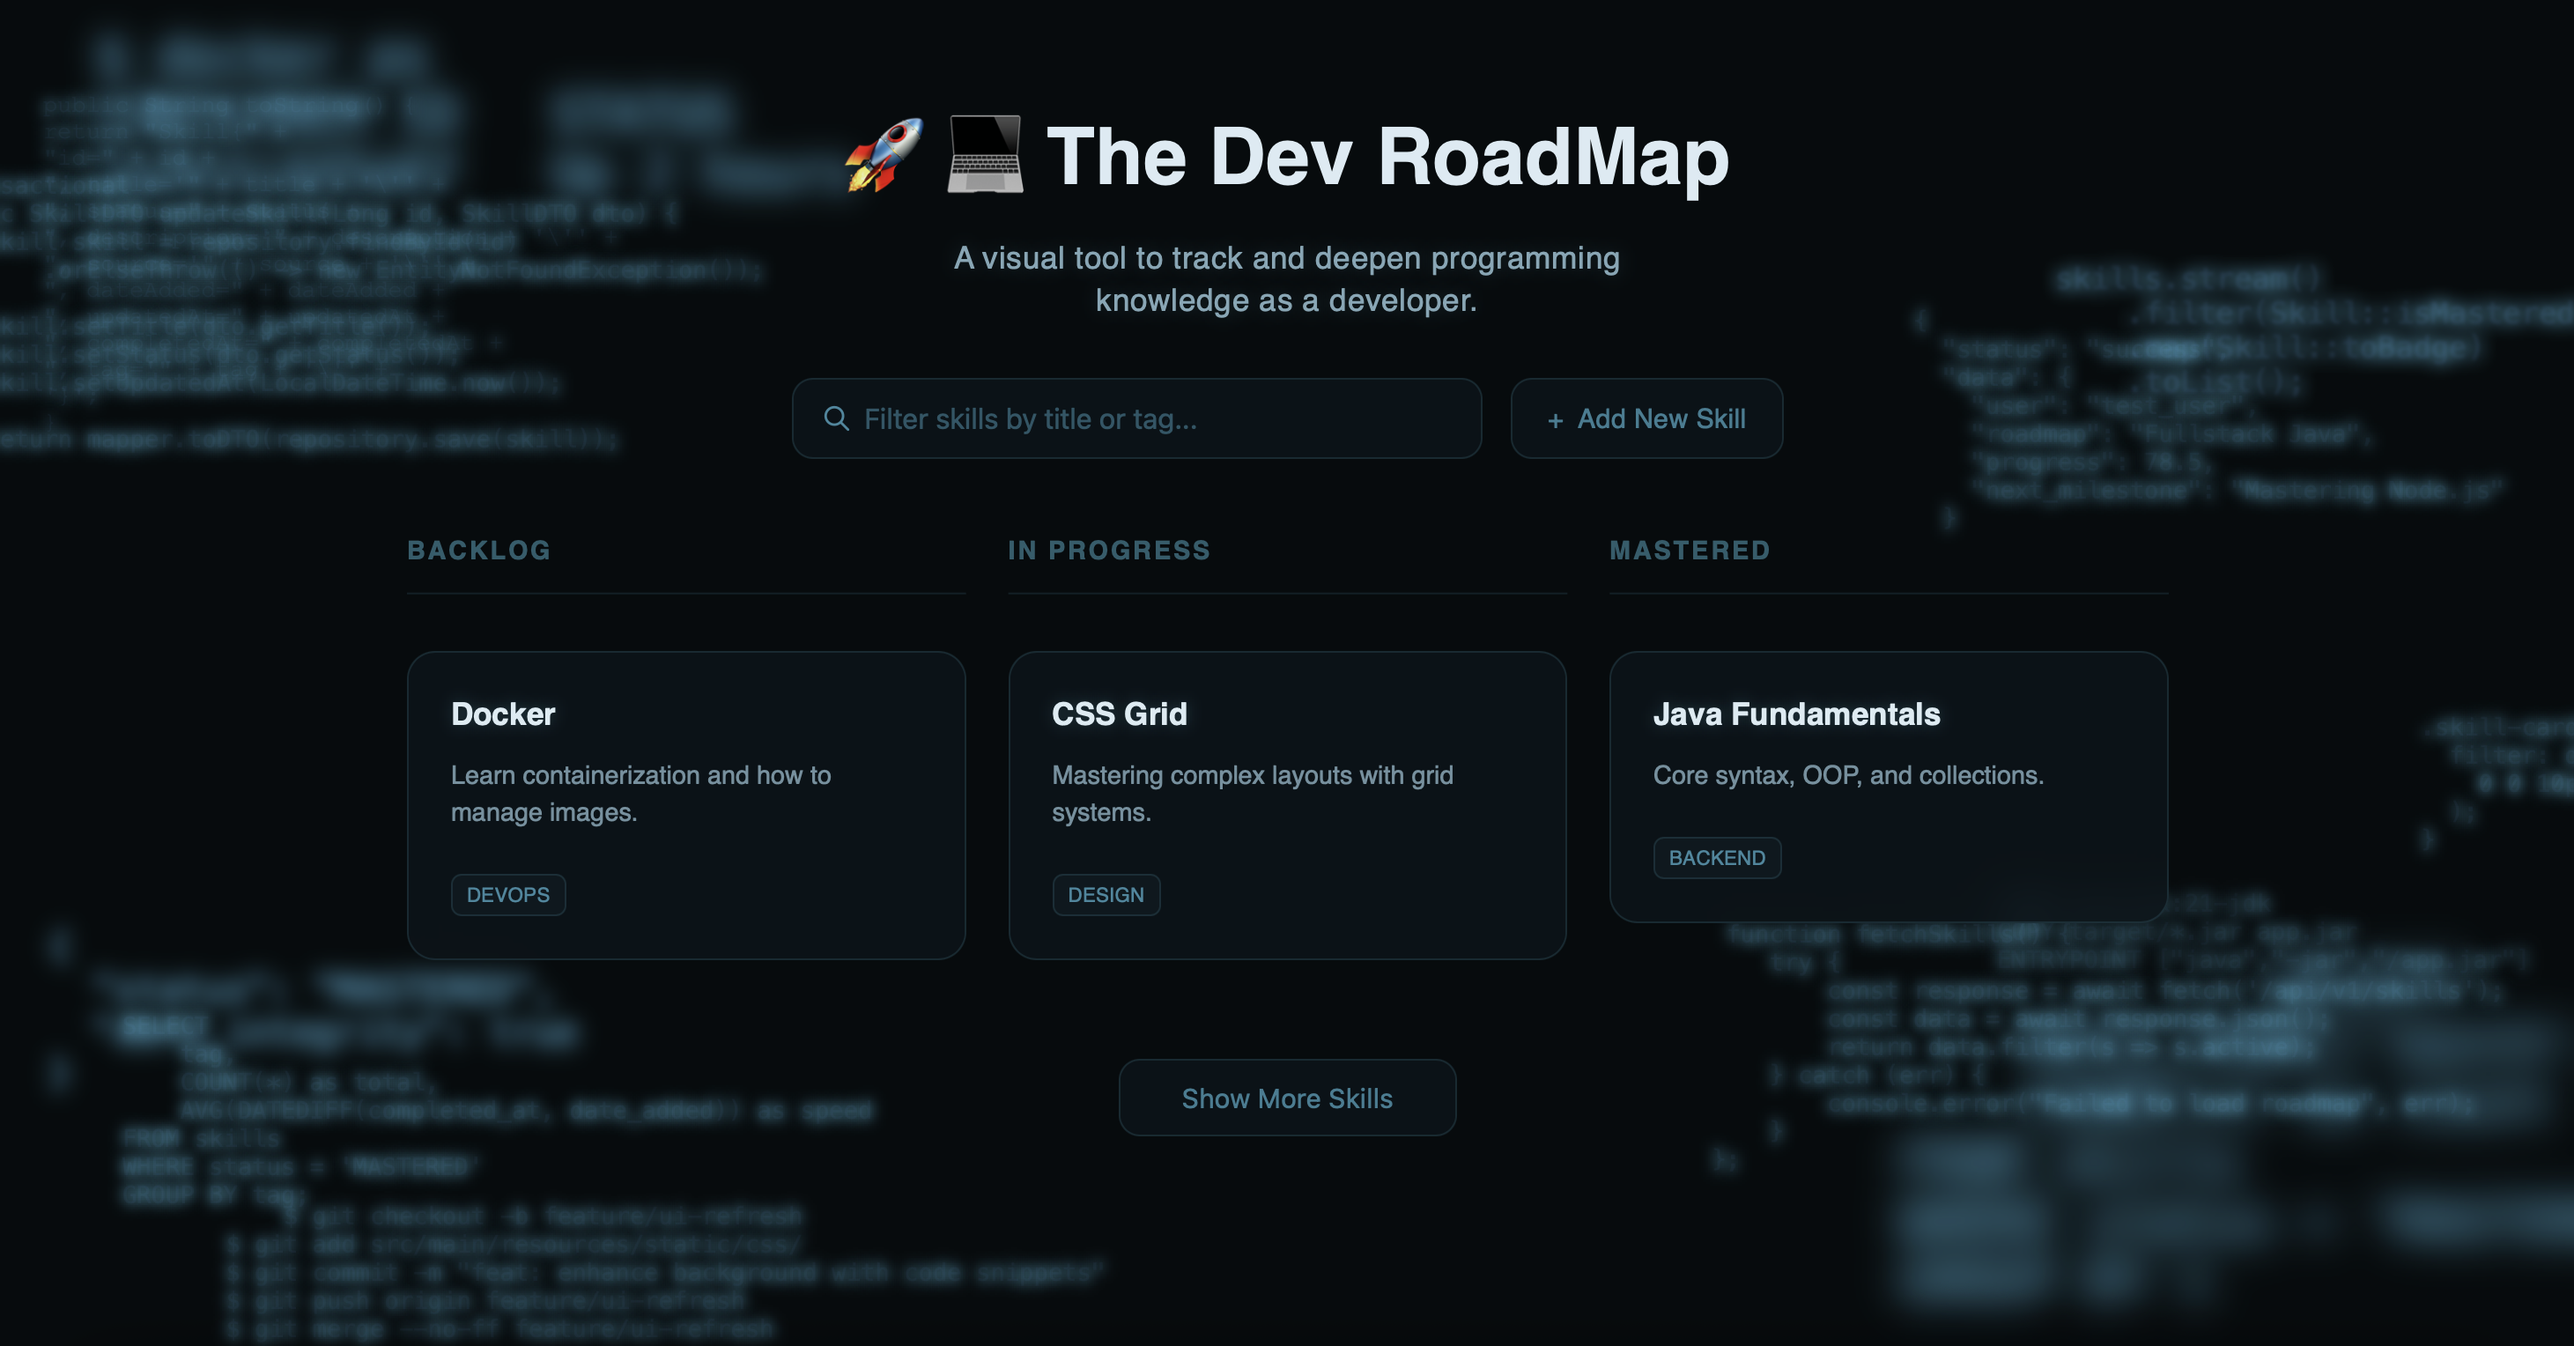
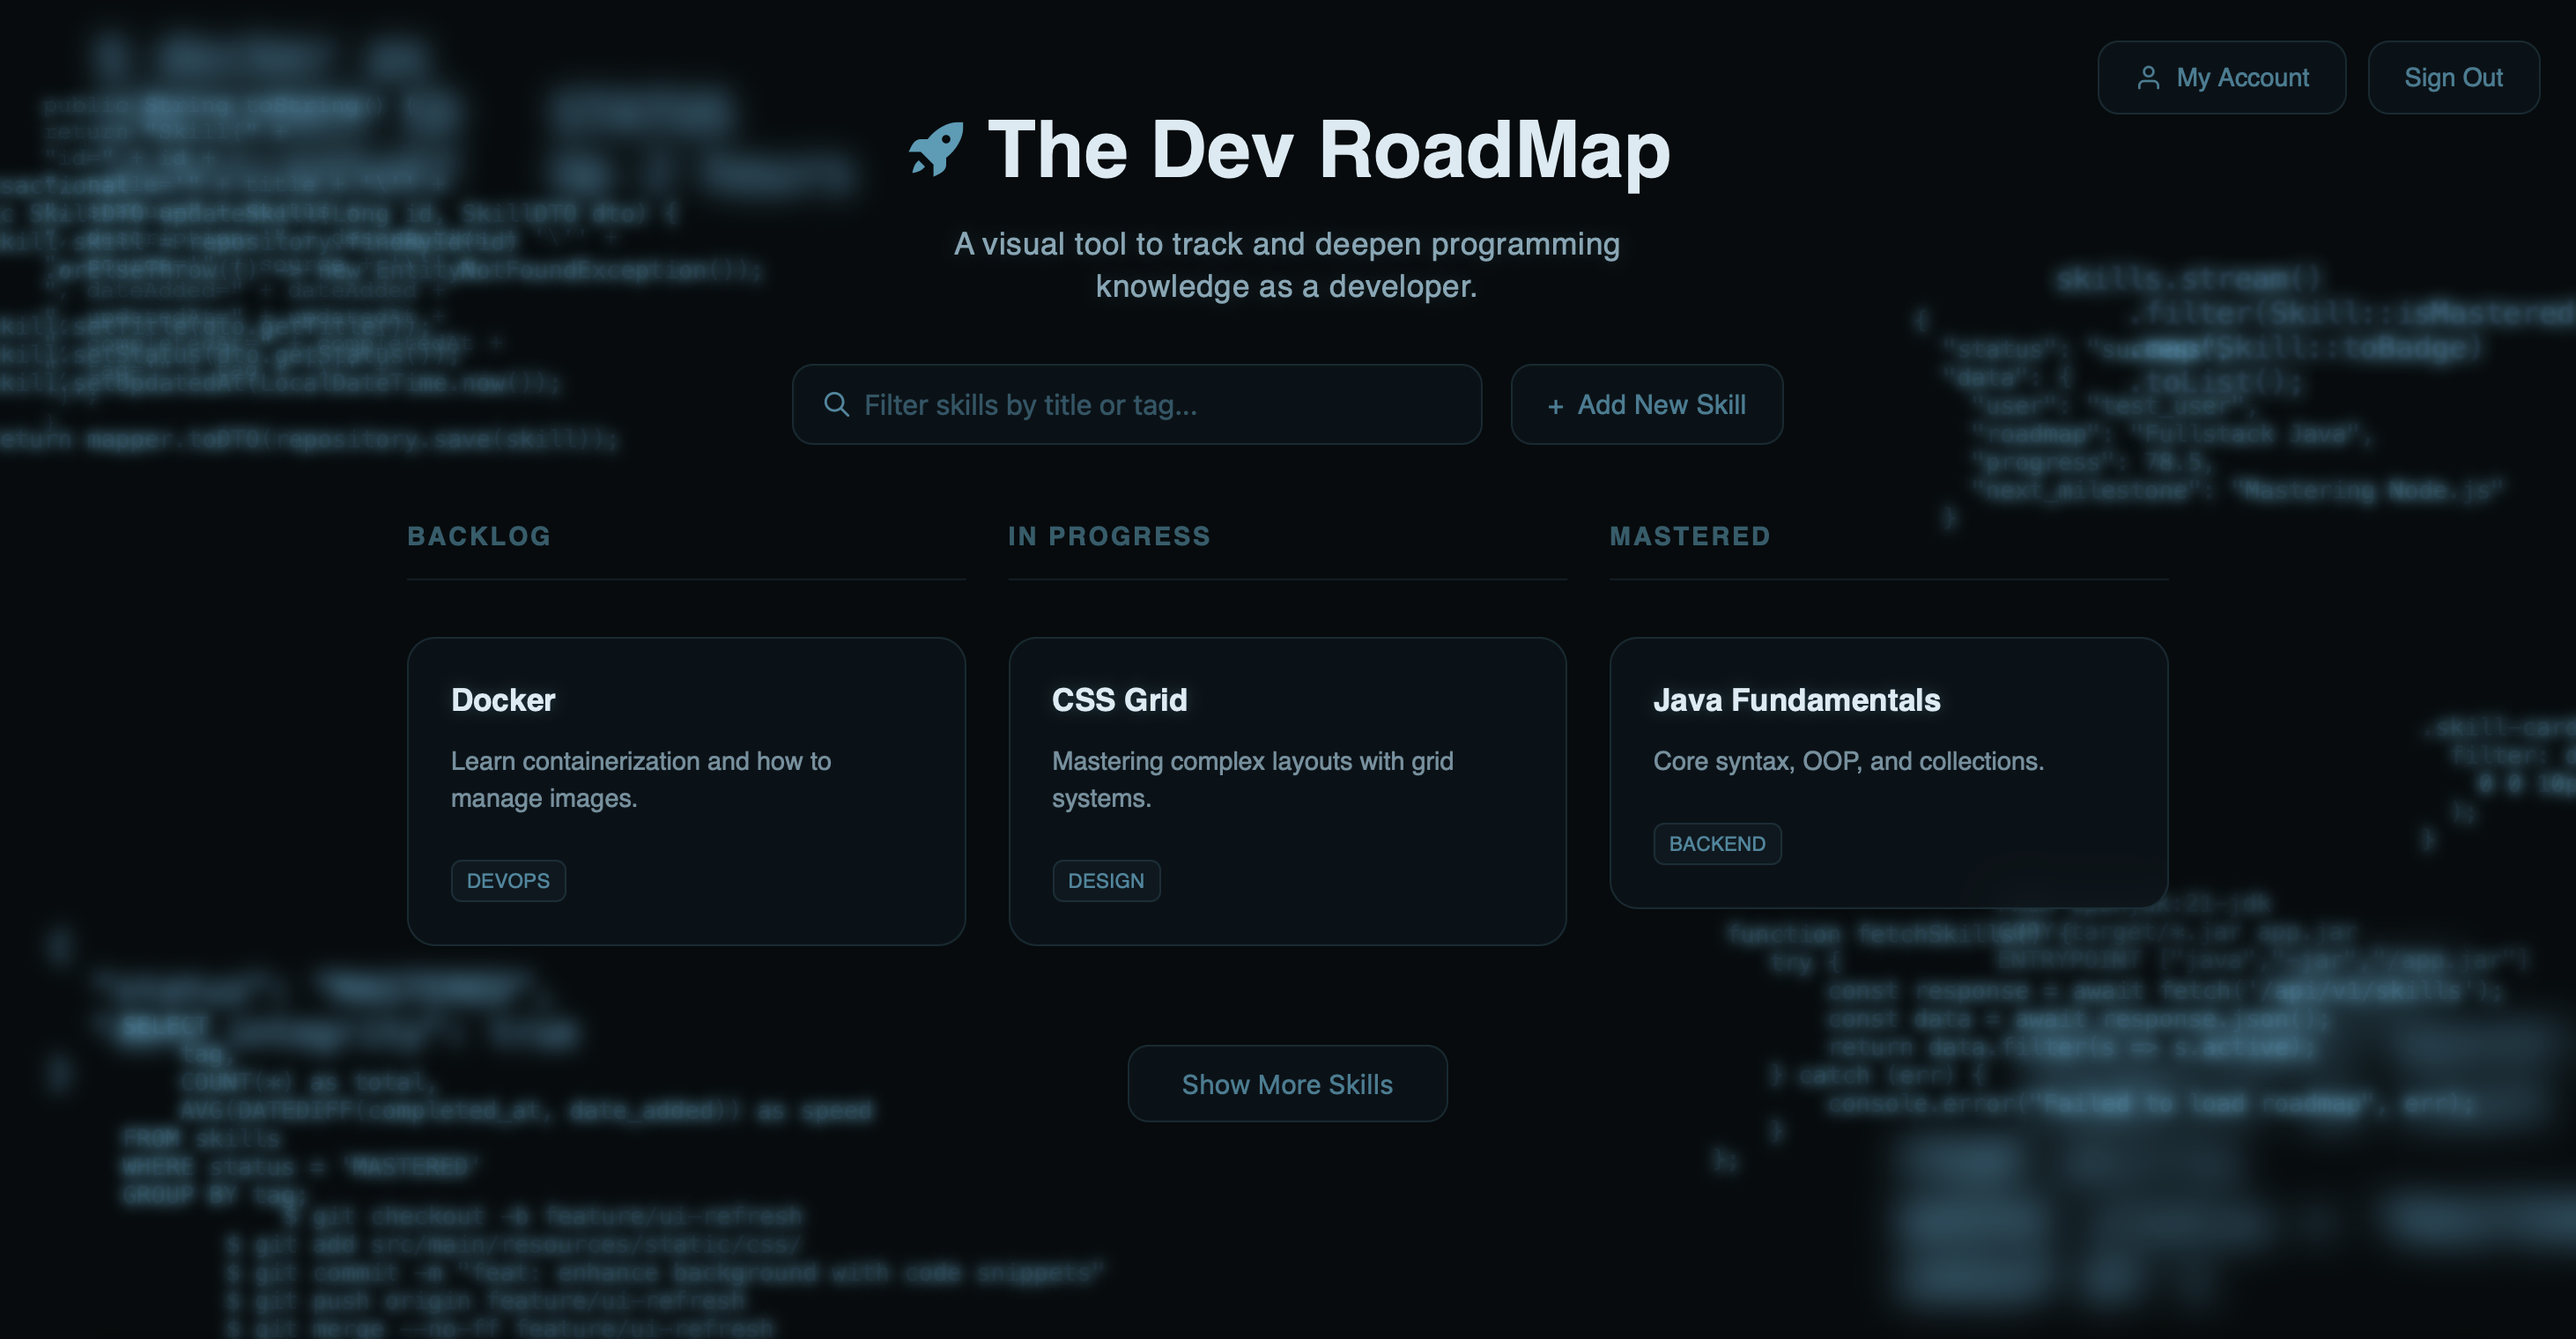
docs: Update README and app-preview image

diff --git a/src/main/resources/static/css/login-signup.css b/src/main/resources/static/css/login-signup.css
@@ -53,7 +53,7 @@ header {
     margin-bottom: 30px;
 }
 
-header p { color: var(--color-text-dim); font-size: 14px; margin-top: -5px; }
+header p { color: var(--color-text-dim); font-size: 14px; margin-top: -10px; }
 
 .form-group { margin-bottom: 25px; }
 

diff --git a/src/main/java/org/example/devroadmapskilltracker/config/DataInitializer.java b/src/main/java/org/example/devroadmapskilltracker/config/DataInitializer.java
@@ -27,10 +27,10 @@ public class DataInitializer {
 
     @Bean
     @Profile("!prod")
-    CommandLineRunner initDatabase(SkillRepository repository, UserRepository userRepository) {
+    CommandLineRunner initDatabase(SkillRepository skillRepository, UserRepository userRepository) {
         return args -> {
 
-            if (repository.count() == 0) {
+            if (userRepository.count() == 0) {
                 logger.info("No skill found. Generating test user and skills...");
 
                 User testUser = new User();
@@ -40,7 +40,7 @@ public class DataInitializer {
 
                 User savedUser = userRepository.save(testUser);
 
-                repository.saveAll(List.of(
+                skillRepository.saveAll(List.of(
                         // BACKLOG
                         new Skill("Docker", "Learn containerization and how to manage images.","DevOps", SkillStatus.BACKLOG, savedUser),
                         new Skill("TypeScript", "Strongly typed JavaScript for better scaling.","Frontend", SkillStatus.BACKLOG,savedUser),

diff --git a/README.md b/README.md
@@ -19,12 +19,13 @@ this project is inspired by the structure of Kanban boards and tools like Trello
 
 ## ✨ Key Features
 * **Visual Kanban Workflow –** Organize your learning in BACKLOG, IN PROGRESS, and MASTERED.
+* **Identity & Account Management (New!) –** Secure user registration, authentication, and personalized profile management.
 * **Intuitive Skill Tracking –** Easily add new topics and document your journey towards mastery.
 * **Smart Filtering & Pagination –** Quickly find what you need with real-time filtering and dynamic "Load More" functionality.
 * **Resource Management –** Keep essential documentation, source links and notes attached to every skill for quick reference.
 
 ## 🛠 Tech Stack
-* **Backend –** Java 25 & Spring Boot 4.0
+* **Backend –** Java 25, Spring Boot 4.0, and Spring Security (Authentication & BCrypt Hashing)
 * **Frontend –** Thymeleaf, Vanilla JavaScript, Modern CSS
 * **Database –** PostgreSQL
 * **Data Handling –** Spring Data JPA with Pagination support
@@ -36,11 +37,13 @@ this project is inspired by the structure of Kanban boards and tools like Trello
 
 ## 🗺 Upcoming Features:
 * **Drag & Drop –** Move skill cards between columns for a more dynamic and interactive experience.
-* **User Authentication –** Personal accounts to secure your data and enable private roadmaps.
 
 
 ## 🚀 Quick Start
 1. Clone the repository.
 2. Run `docker-compose up`.
 3. Open `http://localhost:8080` in your browser.
-4. **Explore –** The app comes pre-loaded with sample data to help you get started right away!
+4. **Log in or Sign up –** You can create a new account instantly, or use the pre-loaded developer profile:
+    * **Username:** `test`
+    * **Password:** `secret`
+5. Let your journey begin!
